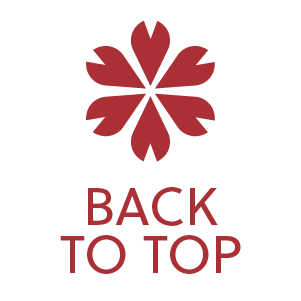
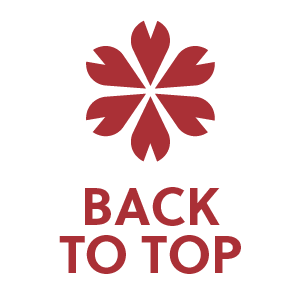
Topbutton

diff --git a/styles.css b/styles.css
@@ -626,9 +626,13 @@ img.hover-shadow {
   border: none;
   outline: none;
   cursor: pointer;
-  padding: 25px;
+  padding: 30px;
+  background-size: 60px;
   background-color: transparent;
+}
 
+#Topbutton background-image {
+  height: 50px;
 }
 
 /* Time Tonic Styles */
